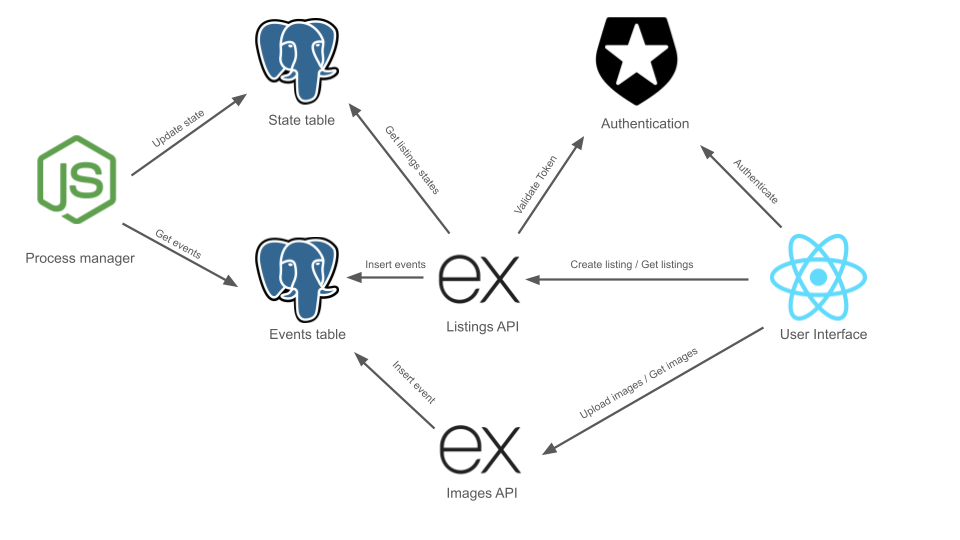
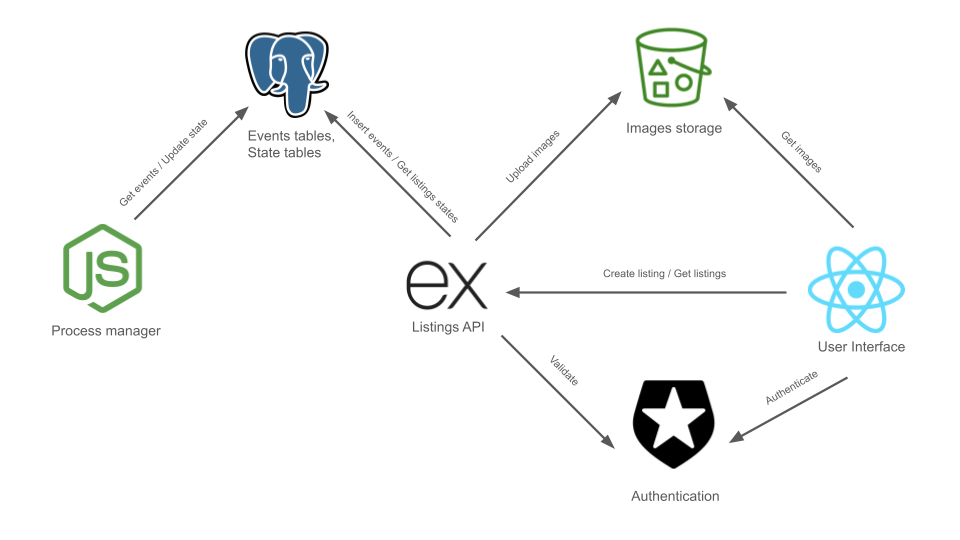
Update ReadME

diff --git a/README.md b/README.md
@@ -2,38 +2,77 @@
 
 ## Abstract
 
-The application is built using an Event Sourcing architecture pattern. User interaction is managed through a Graphical Interface developed with React and Bootstrap. Every user action initiates an API call to the backend, which is implemented in Node.js with the Express.js framework.
-
-Actions such as creating, deleting, or modifying a purchase generate corresponding events recorded in an event table within the PostgreSQL database. These events are processed by dedicated process managers that update the listing states.
-
-Access requires authentication, which is handled by Auth0, an external SaaS client. Users must log in to create a post or purchase a product. Account creation can be performed manually or via integration with configurable third-party authentication providers (e.g., Google, Facebook, GitHub, Apple), as managed by an administrator.
+The application is built using an Event Sourcing architecture pattern. User interaction is managed through a Graphical Interface developed with React and Bootstrap. Every user action initiates an call to the API implemented in Node.js generates corresponding events recorded in an event table within the PostgreSQL database. These events are processed by dedicated process managers that update the listing states. Images are stored on AWS S3 bucket. Access requires authentication, which is handled by Auth0, an external SaaS client.
 
 ![](docs/login.png)
 
-## Service overview graph
+## Services overview
 
 ![](docs/graph.png)
 
 ## Description
 
 In this document you will find a few sections.
-Current section presents you quick overview about project. Next you will find section called Requirements where you find what tools are necessary for installation. Section Installation leads you through the installation process. Next to you can find a Tutorial which explains you how you can use the app.
-
+Current section presents you overview about project. Next, you can find a Tutorial which explains how to use a app. Section Requirements list tools  necessary for installation. Then you will find a installation process.
 
 ## Technlogies
-- Auth0 - authentication
-- NodeJS - engine
-- Typescript - programming language
-- ExpressJS - web application framework
-- React - User Interface Framework
-- Bootstrap - CSS framework
-- Docker Compose - runtime platform 
 
+- Typescript - programming language
+- ExpressJS - API application framework
+- React - UI Framework
+- Bootstrap - CSS framework
+- Auth0 - authentication
+- S3 Bucket - storage
+- Postgres - database
+- Docker Compose - runtime
+
+## Tutorial
+
+How to use this application? It is very simple. Main page looks like:
+![](docs/logout.png)
+
+### Login
+
+You can browse and view listings without logging in. However, logging in allows you to purchase items and create your own listings. Click the Login button, and you will be redirected to the Auth0 page, where you will need to create an account. After successful authentication, you will be redirected back to the Marketplace, where you should see a dashboard similar to the example below.
+
+Notice that the Login to add listing button has been replaced by the _+ Create Listing_ button, and next to it, you will find a _Filter By_ dropdown. On the far right of the navigation bar, the Login button is replaced by your account nickname and profile photo.
+![](docs/login.png)
+
+### View and buy listing
+
+On the main page, each listing shows only one photo along with the item’s name and price. To view more details, you can click the View button, which will open the full listing and display the description. If the listing contains multiple photos, a carousel will automatically rotate through them every few seconds.
+
+When you want to purchase an item, simply press the Buy button and it will be added to your purchases. You can review all the items you have bought by setting the Filter By option to Your Purchases.
+![](docs/view.png)
+
+### Add your listing
+
+You can add a new item by pressing the + Create Listing button. To complete the process, you must upload at least one photo, set a price, and provide both a title and a description for the listing. Validation ensures that a listing cannot be created without this information. Once your listing is added, it will appear on the main page alongside other listings. However, instead of displaying a View button like the others, your listings will feature a Modify button, allowing you to edit them at any time.
+![](docs/add.png)
+
+### Modify your listings
+
+To view listings available for purchase, set the Filter By option to Your Active. You can modify the details of an existing listing by selecting Edit from the Listing Modify dropdown menu.
+
+You can also Archive a listing, which makes it invisible to all users except you. This allows you the option to restore the listing at a later time. Alternatively, you may choose to Delete a listing permanently.
+![](docs/modify.png)
+
+### Filter and switchin beetween dark and light mode
+
+All available application filters are presented here, along with the option to activate the light theme.
+![](docs/light.png)
+
+### Account details
+
+To view your account details, click the button featuring your nickname, which is located on the right side of the navigation bar.
+
+![](docs/account.png)
 
 ## Requirements
 
 - Docker
 - Auth0 account
+- AWS account
 
 ## Installation process
 
@@ -110,46 +149,4 @@ In your main project directory run command below.
 docker compose up --build -d
 ```
 
-Open your browser on http://localhost. You should see a a webside like below
-![](docs/logout.png)
-
-## Tutorial
-
-How to use this application? It is very simple. Just check the steps below.
-
-### Login
-
-You can browse and view listings without logging in. However, logging in allows you to purchase items and create your own listings. Click the Login button, and you will be redirected to the Auth0 page, where you will need to create an account. After successful authentication, you will be redirected back to the Marketplace, where you should see a dashboard similar to the example below.
-
-Notice that the Login to add listing button has been replaced by the _+ Create Listing_ button, and next to it, you will find a _Filter By_ dropdown. On the far right of the navigation bar, the Login button is replaced by your account nickname and profile photo.
-![](docs/login.png)
-
-### View and buy listing
-
-On the main page, each listing shows only one photo along with the item’s name and price. To view more details, you can click the View button, which will open the full listing and display the description. If the listing contains multiple photos, a carousel will automatically rotate through them every few seconds.
-
-When you want to purchase an item, simply press the Buy button and it will be added to your purchases. You can review all the items you have bought by setting the Filter By option to Your Purchases.
-![](docs/view.png)
-
-### Add your listing
-
-You can add a new item by pressing the + Create Listing button. To complete the process, you must upload at least one photo, set a price, and provide both a title and a description for the listing. Validation ensures that a listing cannot be created without this information. Once your listing is added, it will appear on the main page alongside other listings. However, instead of displaying a View button like the others, your listings will feature a Modify button, allowing you to edit them at any time.
-![](docs/add.png)
-
-### Modify your listings
-
-To view listings available for purchase, set the Filter By option to Your Active. You can modify the details of an existing listing by selecting Edit from the Listing Modify dropdown menu.
-
-You can also Archive a listing, which makes it invisible to all users except you. This allows you the option to restore the listing at a later time. Alternatively, you may choose to Delete a listing permanently.
-![](docs/modify.png)
-
-### Filter and switchin beetween dark and light mode
-
-All available application filters are presented here, along with the option to activate the light theme.
-![](docs/light.png)
-
-### Account details
-
-To view your account details, click the button featuring your nickname, which is located on the right side of the navigation bar.
-
-![](docs/account.png)
+Open your browser on http://localhost.
